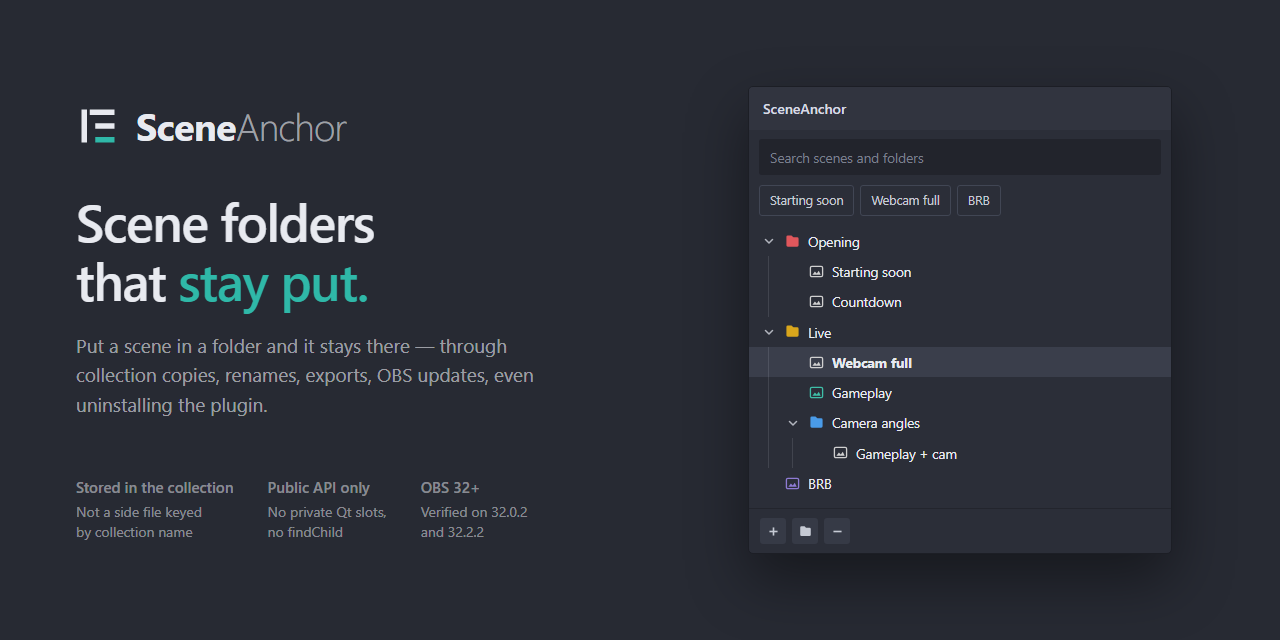
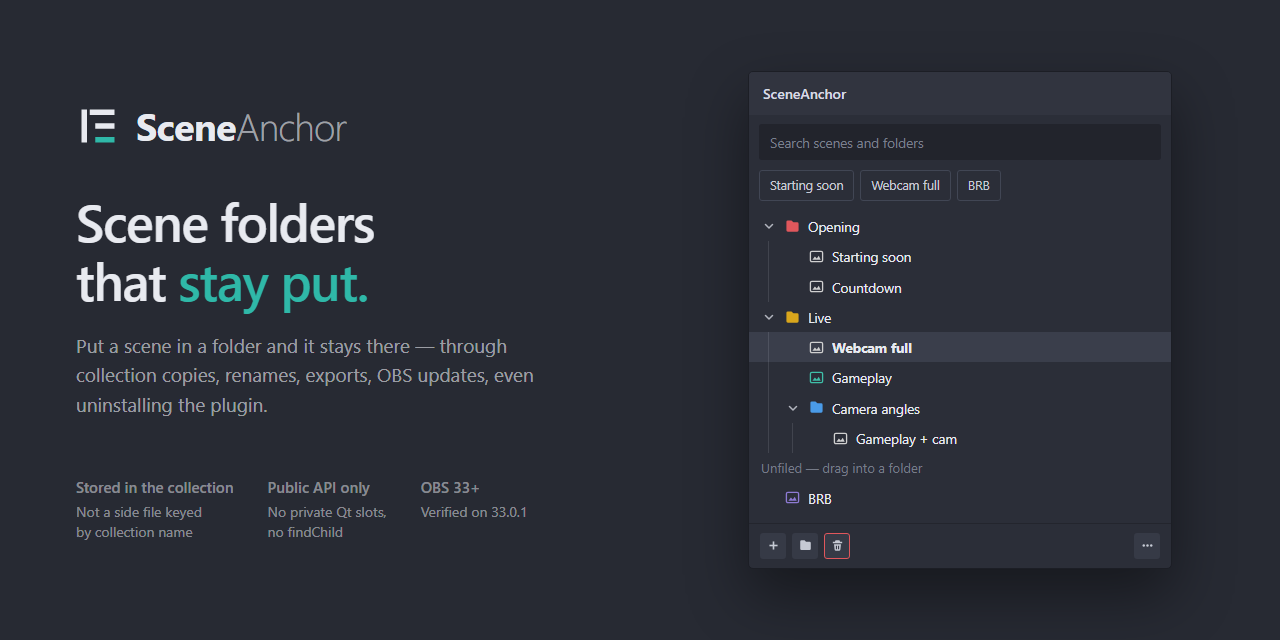
chore(release): prepare the 2.0.0 copy and checklist

diff --git a/assets/social-card.html b/assets/social-card.html
@@ -54,7 +54,9 @@
   .ico { width:15px; height:15px; flex:0 0 15px; }
   .caret { width:16px; height:12px; flex:0 0 16px; color:#D8DBE4; opacity:.78; }
   .toolbar { display:flex; gap:6px; padding:9px 11px; border-top:1px solid #23252d; }
+  .toolbar .end { margin-left:auto; }
   .btn { width:26px; height:26px; border-radius:3px; background:#363A46; display:flex; align-items:center; justify-content:center; }
+  .btn.danger { border:1px solid #E0575C; }
   .btn svg { width:13px; height:13px; color:#C6CAD4; }
 </style>
 <body>
@@ -70,7 +72,7 @@
     <div class="facts">
       <div class="fact"><b>Stored in the collection</b>Not a side file keyed<br>by collection name</div>
       <div class="fact"><b>Public API only</b>No private Qt slots,<br>no findChild</div>
-      <div class="fact"><b>OBS 32+</b>Verified on 32.0.2<br>and 32.2.2</div>
+      <div class="fact"><b>OBS 33+</b>Verified on 33.0.1</div>
     </div>
   </div>
 
@@ -92,12 +94,14 @@
         <div class="row"><i class="g"></i><i class="g0"></i><svg class="ico" viewBox="0 0 16 16"><rect x="1.5" y="2.5" width="13" height="11" rx="1.5" fill="none" stroke="#3FBFA8" stroke-width="1.4"/><path fill="#3FBFA8" d="M3.6 11.4 6.3 7.9l2 2.3 2.1-2.9 2.1 4.1z"/></svg>Gameplay</div>
         <div class="row"><i class="g"></i><svg class="caret" viewBox="0 0 16 12" fill="none" stroke="currentColor" stroke-width="1.5" stroke-linecap="round" stroke-linejoin="round"><path d="M4.5 4.5 8 8l3.5-3.5"/></svg><svg class="ico" viewBox="0 0 16 16"><path fill="#4A9BE8" d="M1.5 3A1.5 1.5 0 0 1 3 1.5h3.2c.4 0 .8.16 1.06.44L8.6 3.28c.1.1.24.16.38.16H13A1.5 1.5 0 0 1 14.5 4.94V12A1.5 1.5 0 0 1 13 13.5H3A1.5 1.5 0 0 1 1.5 12V3z"/></svg>Camera angles</div>
         <div class="row"><i class="g"></i><i class="g"></i><i class="g0"></i><svg class="ico" viewBox="0 0 16 16"><rect x="1.5" y="2.5" width="13" height="11" rx="1.5" fill="none" stroke="#d0d0d0" stroke-width="1.4"/><path fill="#d0d0d0" d="M3.6 11.4 6.3 7.9l2 2.3 2.1-2.9 2.1 4.1z"/></svg>Gameplay + cam</div>
+        <div class="row hdr">Unfiled — drag into a folder</div>
         <div class="row"><i class="g0"></i><svg class="ico" viewBox="0 0 16 16"><rect x="1.5" y="2.5" width="13" height="11" rx="1.5" fill="none" stroke="#8E7BD4" stroke-width="1.4"/><path fill="#8E7BD4" d="M3.6 11.4 6.3 7.9l2 2.3 2.1-2.9 2.1 4.1z"/></svg>BRB</div>
       </div>
       <div class="toolbar">
         <div class="btn"><svg viewBox="0 0 16 16"><path fill="currentColor" d="M7 3h2v10H7z"/><path fill="currentColor" d="M3 7h10v2H3z"/></svg></div>
         <div class="btn"><svg viewBox="0 0 16 16"><path fill="currentColor" d="M1.5 3A1.5 1.5 0 0 1 3 1.5h3.2c.4 0 .8.16 1.06.44L8.6 3.28c.1.1.24.16.38.16H13A1.5 1.5 0 0 1 14.5 4.94V12A1.5 1.5 0 0 1 13 13.5H3A1.5 1.5 0 0 1 1.5 12V3z"/></svg></div>
-        <div class="btn"><svg viewBox="0 0 16 16"><path fill="currentColor" d="M3 7h10v2H3z"/></svg></div>
+        <div class="btn danger"><svg viewBox="0 0 16 16"><path fill="currentColor" d="M6.25 1.5h3.5a1.25 1.25 0 0 1 1.25 1.25V3.5h2.75v1.75H2.25V3.5H5V2.75A1.25 1.25 0 0 1 6.25 1.5z"/><path fill="currentColor" fill-rule="evenodd" d="M3.75 6.5h8.5l-.66 6.42A1.75 1.75 0 0 1 9.84 14.5H6.16a1.75 1.75 0 0 1-1.75-1.58L3.75 6.5zm2.25 1.75v4.5h1.4v-4.5H6zm2.6 0v4.5H10v-4.5H8.6z"/></svg></div>
+        <div class="btn end"><svg viewBox="0 0 16 16"><circle cx="3.4" cy="8" r="1.5" fill="currentColor"/><circle cx="8" cy="8" r="1.5" fill="currentColor"/><circle cx="12.6" cy="8" r="1.5" fill="currentColor"/></svg></div>
       </div>
     </div>
   </div>

diff --git a/README.zh.md b/README.zh.md
@@ -30,7 +30,7 @@
 - **颜色标签**，文件夹和场景都能打——8 个预设加任意自定义色，渲染时自动调整以在你的主题下保持可读（见下）
 - **最近使用条**，一键切回；能放几个由面板宽度算出来，宁可少放也不把名字截成残段
 - **空状态引导**：还没有文件夹时，面板长得和 OBS 自带场景列表一模一样——连左边界都一样，因为展开箭头那一栏只在真有文件夹时才占位——于是它会说明怎么建第一个；建好就消失，面板小到放不下整句时也消失（截半句的引导读起来像坏了）
-- **面板右下角「⋯」按钮的选项**（也可在树空白处右键）：双击行为（转场 / 重命名 / 无）、选中是否切换场景、是否显示最近使用条、是否显示图标（一个开关同时管文件夹与场景，与 OBS 自己的来源列表同一套做法）
+- **面板右下角「⋯」按钮的选项**（也可在树空白处右键）：双击行为（转场 / 重命名 / 无）、点击或用方向键是否切换场景、是否显示最近使用条、是否显示图标（一个开关同时管文件夹与场景，与 OBS 自己的来源列表同一套做法）
 - **完整右键菜单**：转场到此场景、重命名（F2）、创建副本、删除、**滤镜**子菜单（复制 / 粘贴 / 打开）、**投影**子菜单（窗口，或按显示器全屏 — 报的是显示器真实像素尺寸）、截屏、覆盖转场动画（含时长）、在多视图中显示、颜色
 - **画得清楚的树**：展开箭头与逐层缩进导引线由插件自绘而非交给 Qt 默认样式，因而跟随当前主题、不会在深色下消失；每个文件夹都有箭头，空文件夹也有，所以文件夹永远不会被读成场景
 - **窄面板可用**：不给面板设人为下限；越拖越窄时，最近使用条会收成一枚按钮加一个「⋯」菜单
@@ -55,7 +55,7 @@
 
 到 [Releases](https://github.com/rockbenben/scene-anchor/releases) 下载对应平台的文件：**Windows** 是 `.exe` 安装包（也提供 `.zip`）；**macOS** 是 `.pkg` 安装包；**Linux** 是 `.deb`（`sudo apt install ./scene-anchor-*.deb`）。
 
-**这个分支只支持 OBS 33+。** 当前已发布的最新版仍是 1.0.1（OBS 32）；下一个版本 2.0.0 改用 OBS 33 的插件目录。OBS 32 用户请留在 1.0.1。
+**2.0.0 只支持 OBS 33+。** OBS 32 用户请留在 1.0.1；这一版改用 OBS 33 的插件目录。
 
 **Windows：双击 `.exe` 就装完了。** 默认装进 `C:\ProgramData\obs-studio\plugins\`——这是 OBS 33 在 Windows 上给常规安装读取的全机插件目录，也是 OBS 更新时不会被清掉的那个。**便携版**请在安装向导里把目标指向含 `bin\64bit\obs64.exe` 的 OBS 根目录，它会改装到 `<OBS>\plugins\scene-anchor\`。安装包按你选的目录挑布局，并在两者之间切换时清掉旧位置的副本，避免 OBS 把插件加载两次。两个目标都是全机范围的目录，所以会要一次管理员权限。想卸载在「设置 → 应用」里能找到。安装包未做代码签名，Windows SmartScreen 会拦一下（*「Windows 已保护你的电脑」*），点**详细信息 → 仍要运行**即可。
 
@@ -74,6 +74,8 @@ C:\ProgramData\obs-studio\plugins\scene-anchor\data\locale\zh-CN.ini
 
 **macOS：安装包未签名。** 双击 `.pkg` 会看到*「无法打开，因为它来自身份不明的开发者」*——改成右键选**打开**，或到系统设置 → 隐私与安全性里放行。这是安装包的事，不是插件的事：OBS 自己的 entitlements 里带着 `com.apple.security.cs.disable-library-validation`（`frontend/cmake/macos/entitlements.plist`），正是为了能加载第三方插件，所以未签名的插件装好之后照常加载。给安装包签名需要 Apple Developer ID，多数独立 OBS 插件作者不会去买——[obs-move-transition](https://github.com/exeldro/obs-move-transition)、[waveform](https://github.com/phandasm/waveform)、[obs-multi-rtmp](https://github.com/sorayuki/obs-multi-rtmp) 至今发的都是未签名的包。
 
+**Linux：先装 OBS 33。** Ubuntu 26.04 官方源里的 OBS 仍是 32.1，加载不了本插件。先按 [OBS PPA](https://launchpad.net/~obsproject/+archive/ubuntu/obs-studio) 装 OBS 33（`sudo add-apt-repository ppa:obsproject/obs-studio && sudo apt update && sudo apt install obs-studio`），再装 `.deb`。
+
 **装好之后要手动打开面板。** SceneAnchor 的面板默认不可见——OBS 不会自动显示新插件的面板。打开 OBS 的**停靠部件**菜单（某些平台在 视图 → 停靠部件 下），勾选 **SceneAnchor** 就出来了。装完看不到面板，几乎都是这个原因，不是插件加载失败。
 
 ## 已知限制
@@ -86,18 +88,18 @@ C:\ProgramData\obs-studio\plugins\scene-anchor\data\locale\zh-CN.ini
   个别插件确实提供了自己的切换口子（Aitum Vertical ≥1.6.1 在全局 proc handler 上注册了 `aitum_vertical_switch_scene`）。支持这一家而不支持下一家既不公平也难维护；而一个本面板切不了的场景，只占得住三个动词里的两个——找到、整理、切换。两个不足以换一个 UI 分区。
 - **切换「在多视图中显示」不会立刻刷新已打开的多视图投影。** 改动要等下一次树重建才生效（没有公开 API 能强制刷新多视图）。
 - **搜索过滤生效期间禁用拖放**，因为过滤会隐藏一部分项，放置位置可能与看到的不符。清空搜索框即可恢复拖放。
-- **默认「选中即切换场景」**——包括用方向键移动选中项时。这与 OBS 自带场景列表一致，但那个列表只用来切换，而本面板还要用来拖拽、改名、上色。用方向键越过八个场景去够一个文件夹，就是八次真实的节目切换。整理的时候在「⋯」菜单里关掉**选中即切换场景**；双击和菜单里的**转场到此场景**照常可用。
+- **默认「点击或方向键切换场景」**——包括用方向键移动选中项时。这与 OBS 自带场景列表一致，但那个列表只用来切换，而本面板还要用来拖拽、改名、上色。用方向键越过八个场景去够一个文件夹，就是八次真实的节目切换。整理的时候在「⋯」菜单里关掉**点击或方向键切换场景**；双击和菜单里的**转场到此场景**照常可用。
 - **在新版本里改默认值不会影响老用户。** OBS 在退出时持久化插件设置，所以插件只要跑过一次，存下来的值就压过代码里声明的任何默认值。默认值只对全新安装生效。
 
 **灰色地带**：转场覆盖存在 `"transition"` / `"transition_duration"` 这两个 private-settings 键下，多视图可见性存在 `"show_in_multiview"` 下。这些键可以通过公开 API 读写，但键名本身是 OBS 前端的约定而非有文档的 API 契约——未来某个 OBS 版本可能不打招呼就改掉。
 
-- **只有 Windows 经过真机验证。**[`docs/pre-release-checklist.md`](docs/pre-release-checklist.md) 里的完整人工检查——拖拽、撤销/重做、删除撤销、主题、本地化——是在 Windows 上对着 OBS 32.2.2 跑的。OBS 33.0.x 构建已跑过加载、面板、搜索与切换，以及 MRU 顺序、单击延迟模式、集合复制/切换/重命名 + 强杀、热键搜索流程和关闭日志；其余项尚未在 OBS 33 上重跑。macOS 与 Linux 目标能在 CI 上编译打包，插件本身也没有任何平台相关代码，但至今没有人在这两个系统上把 OBS 带着它启动过。请把它们当作**未验证**而不是**有问题**，遇到什么也欢迎报给我。
+- **只有 Windows 经过真机验证。**[`docs/pre-release-checklist.md`](docs/pre-release-checklist.md) 的人工检查已在 Windows 上对着 OBS 33.0.1 跑过第 1–8、10–13、15–20 项；第 9 项（副画布）没有对应插件，不适用。第 14 项（首次使用 dock 的可见性）以及自定义色对话框点选、物理热键与 Studio Mode 分支，仍按清单里的说明留待发版前补做。macOS 与 Linux 目标能在 CI 上编译打包，插件本身也没有任何平台相关代码，但至今没有人在这两个系统上把 OBS 带着它启动过。请把它们当作**未验证**而不是**有问题**，遇到什么也欢迎报给我。
 
 ## 报告问题
 
 问题请提到 [GitHub Issues](https://github.com/rockbenben/scene-anchor/issues)。四样东西决定一份报告能不能被查下去：
 
-- **OBS 版本、平台，以及插件版本。**最后这项插件加载时会自己打进日志：`[scene-anchor] plugin loaded successfully (version 1.0.1)`。
+- **OBS 版本、平台，以及插件版本。**最后这项插件加载时会自己打进日志：`[scene-anchor] plugin loaded successfully (version 2.0.0)`。
 - **那一次运行的日志。**帮助 → 日志文件 → 上传当前日志文件会生成一个可分享的链接；本插件写的每一行都带 `[scene-anchor]` 前缀。
 - **你做了什么、预期什么、实际发生了什么**——以及是否涉及撤销或重做，那是本插件风险最高的代码路径。
 - **如果文件夹丢了，把场景集合本身附上**（场景集合 → 导出场景集合）。树就存在那个文件里，它本身就是证据；缺了它的「文件夹丢失」报告基本无法定位。
@@ -136,7 +138,7 @@ cmake --preset ubuntu-x86_64
 cmake --build --preset ubuntu-x86_64 --config RelWithDebInfo
 ```
 
-单元测试（不需要 OBS 运行时；测试本身只链接 Qt，用假 OBS 桩）：
+单元测试（不需要 OBS 运行时；测试本身只链接 Qt、用假 OBS 桩，但 UI 测试会编译 `tree_dock.cpp`，因此需要 OBS 头文件——本地构建的 `.deps/include`，或 Ubuntu 上的 `libobs-dev`）：
 
 ```bash
 cmake -S tests -B build_tests -G Ninja

diff --git a/README.md b/README.md
@@ -55,7 +55,7 @@ Existing scene-tree plugins ([DigitOtter/obs_scene_tree_view](https://github.com
 
 Grab your platform's file from [Releases](https://github.com/rockbenben/scene-anchor/releases): **Windows** an `.exe` installer (or a `.zip`), **macOS** a `.pkg` installer, **Linux** a `.deb` (`sudo apt install ./scene-anchor-*.deb`).
 
-**This branch targets OBS 33+.** The latest published release is still 1.0.1 (OBS 32); the next release, 2.0.0, moves to OBS 33's plugin layout. OBS 32 users should stay on 1.0.1.
+**This release (2.0.0) requires OBS 33+.** OBS 32 users should stay on 1.0.1; 2.0.0 moves to OBS 33's plugin layout.
 
 **Windows: run the `.exe` and you're done.** It defaults to `C:\ProgramData\obs-studio\plugins\` — the machine-wide plugin directory OBS 33 reads for a normal install, and the one an OBS update won't wipe. For a **portable** OBS, point the installer at the folder containing `bin\64bit\obs64.exe`; it will install to `<OBS>\plugins\scene-anchor\` instead. The two layouts are chosen from the folder you pick, and switching between them removes the old copy so OBS never loads the plugin twice. Both targets are machine-wide, so it asks for administrator rights once. It shows up under Settings → Apps if you ever want it gone. The installer is not code-signed, so Windows SmartScreen will say *"Windows protected your PC"* — click **More info → Run anyway**.
 
@@ -73,6 +73,8 @@ Note it is `ProgramData`, not `%APPDATA%` — OBS reads plugins from the machine
 Restart OBS after any of these.
 
 **macOS: the installer is not signed.** Double-clicking the `.pkg` gets you *"cannot be opened because it is from an unidentified developer"* — right-click it and choose **Open** instead, or allow it under System Settings → Privacy & Security. This is about the installer, not the plugin: OBS ships `com.apple.security.cs.disable-library-validation` in its own entitlements (`frontend/cmake/macos/entitlements.plist`) precisely so it can load third-party plugins, so an unsigned plugin loads normally once installed. Signing the installer needs an Apple Developer ID, which most individual OBS plugin authors don't buy — [obs-move-transition](https://github.com/exeldro/obs-move-transition), [waveform](https://github.com/phandasm/waveform) and [obs-multi-rtmp](https://github.com/sorayuki/obs-multi-rtmp) all ship unsigned packages today.
+
+**Linux: install OBS 33 first.** Ubuntu 26.04's archive still ships OBS 32.1, which cannot load this plugin. Install OBS Studio 33 from the [OBS PPA](https://launchpad.net/~obsproject/+archive/ubuntu/obs-studio) (`sudo add-apt-repository ppa:obsproject/obs-studio && sudo apt update && sudo apt install obs-studio`), then install the `.deb`.
 
 **After installing, enable the dock.** SceneAnchor's dock is not visible by default — OBS does not automatically show new plugin docks. Open OBS's **Docks** menu (View → Docks on some platforms) and check **SceneAnchor** to make it appear. If you don't see the dock after installing, this is almost always the reason — the plugin has not failed to load.
 
@@ -92,13 +94,13 @@ Restart OBS after any of these.
 
 **Gray areas**: transition override is stored under the `"transition"` / `"transition_duration"` private-settings keys, and multiview visibility under `"show_in_multiview"`. These keys are accessible through public API calls, but the keys themselves are an OBS frontend convention rather than a documented API contract — a future OBS version could change them without notice.
 
-- **Only Windows has been exercised on real hardware.** The full manual checklist in [`docs/pre-release-checklist.md`](docs/pre-release-checklist.md) — drag, undo/redo, delete-undo, themes, localisation — was run on Windows against OBS 32.2.2. The OBS 33.0.x build has been exercised for load/dock/search/switch, MRU ordering, the click-delay modes, collection copy/switch/rename + force-kill, the hotkey/search flow and a clean shutdown log; the remaining items have not been rerun on OBS 33. The macOS and Linux targets compile and package in CI, and the plugin uses no platform-specific code, but nobody has yet launched OBS with it on either. Treat those two as untested rather than broken, and please report what you find.
+- **Only Windows has been exercised on real hardware.** The manual checklist in [`docs/pre-release-checklist.md`](docs/pre-release-checklist.md) was run on Windows against OBS 33.0.1 for this release: items 1–8, 10–13 and 15–20. Item 9 (secondary canvas) is not applicable without such a plugin. Item 14 (first-run dock visibility) and the manual custom-colour dialog and physical-hotkey/Studio Mode checks are called out in that file as the remaining release-day checks. The macOS and Linux targets compile and package in CI, and the plugin uses no platform-specific code, but nobody has yet launched OBS with it on either. Treat those two as untested rather than broken, and please report what you find.
 
 ## Reporting bugs
 
 Bugs go to [GitHub Issues](https://github.com/rockbenben/scene-anchor/issues). Four things make a report actionable:
 
-- **OBS version, platform, and plugin version.** The plugin prints the last one when it loads: `[scene-anchor] plugin loaded successfully (version 1.0.1)`.
+- **OBS version, platform, and plugin version.** The plugin prints the last one when it loads: `[scene-anchor] plugin loaded successfully (version 2.0.0)`.
 - **The log from that session.** Help → Log Files → Upload Current Log File gives a shareable link; every line this plugin writes is prefixed `[scene-anchor]`.
 - **What you did, what you expected, what happened** — and whether undo or redo was involved, because that is where this plugin's riskiest code paths are.
 - **If folders went missing, attach the scene collection itself** (Scene Collection → Export Scene Collection). The tree is stored inside that file, so it is the evidence; a lost-folders report without it usually can't be diagnosed.
@@ -137,7 +139,7 @@ cmake --preset ubuntu-x86_64
 cmake --build --preset ubuntu-x86_64 --config RelWithDebInfo
 ```
 
-Unit tests (no OBS runtime required; the tests link Qt only, with a fake OBS stub):
+Unit tests (no OBS runtime required; the tests link Qt only, with a fake OBS stub, but the UI test compiles `tree_dock.cpp` and therefore needs OBS headers — `.deps/include` from a local build, or `libobs-dev` on Ubuntu):
 
 ```bash
 cmake -S tests -B build_tests -G Ninja

diff --git a/docs/release.md b/docs/release.md
@@ -7,27 +7,31 @@
   `v1.0.2` 会被 CI 直接拒绝并提示正确写法。
 - **tag 必须等于 `buildspec.json` 的 `version`。** `check-event` 在构建前比较两者，
   不一致就失败，避免 `1.0.2` 的 tag 发出 `1.0.1` 的文件。
-- **OBS 32 兼容的最后一版是 `1.0.1`。** 从下一个版本起只支持 OBS 33+、只发 OBS 33 的
-  插件目录；放弃 OBS 32 是破坏性变更，版本号应为 `2.0.0`。
+- **OBS 32 兼容的最后一版是 `1.0.1`。** 从 `2.0.0` 起只支持 OBS 33+、只发 OBS 33 的
+  插件目录；放弃 OBS 32 是破坏性变更，所以 2.0.0 是 major。
 
 ## 发版步骤
 
 1. 改 `buildspec.json` 的 `version`。破坏性支持范围变化抬 major。
 2. 更新 `README.md` / `README.zh.md` 的支持范围、安装路径与已知限制；按
-   [`docs/pre-release-checklist.md`](pre-release-checklist.md) 在目标 OBS 版本上跑完整清单。
+   [`docs/pre-release-checklist.md`](pre-release-checklist.md) 在目标 OBS 版本上补齐剩余项，
+   包括第 21 项 Windows 1.0.1 → 2.0.0 升级安装。
 3. 本地验证：构建、单测、安装布局、OBS 实机加载。
-4. 提交后打 tag，推送 tag：
+4. 先把 main 上待发布的提交推送，确认 `check-format`、`tests` 与 `build-project` 全绿；
+   不要给没跑过 CI 的提交打 tag。
+5. 打 tag，推送 tag：
 
    ```bash
    git tag 2.0.0
    git push origin 2.0.0
    ```
 
-5. CI 依次执行：单测 → 三平台构建/打包 → `create-release` 生成 draft release。
+6. CI 依次执行：单测 → 三平台构建/打包 → `create-release` 生成 draft release。
    单测失败时不会创建 release。
-6. 检查 draft 的产物与 `CHECKSUMS.txt`，用下面的模板补中英双语说明，再发布。
+7. 检查 draft 的产物与 `CHECKSUMS.txt`，用下面的模板补中英双语说明，再发布。
    draft 初始正文只有校验和；在它上面加说明，不要删掉校验和块。
-7. 发布后把 OBS 论坛资源页的版本与下载链接更新到新 release。
+8. 发布后更新 OBS 论坛资源页的版本、下载链接与兼容范围；同时确认 GitHub description
+   和社交预览图不再写 OBS 32。社交预览图没有 API，只能在 Settings → Social preview 手动上传。
 
 ## 发布产物
 
@@ -38,10 +42,14 @@
 | Ubuntu 26.04 | `scene-anchor-<version>-x86_64-linux-gnu.deb` | `/usr/lib/<multiarch>/obs-modules/plugins/` + `/usr/share/obs/obs-modules/plugins/` |
 | 调试/源码 | `-dbgsym.ddeb`、`-source.tar.xz` | 普通用户不需要 |
 
+Ubuntu 26.04 的系统源 OBS 仍是 32.1；上表的 `.deb` 只适用于 OBS 33（OBS 官方 PPA）。
+
 ## Release notes 模板
 
 ```markdown
-**Requires OBS Studio 33 or newer.** OBS 32 users should stay on 1.0.1.
+**Requires OBS Studio 33 or newer.** OBS 32 users should stay on 1.0.1. On Ubuntu 26.04, install OBS 33 from the [OBS PPA](https://launchpad.net/~obsproject/+archive/ubuntu/obs-studio) first — the archive's OBS is 32.1.
+
+The Windows installer removes the 1.0.1 legacy files (the old `...\scene-anchor\bin\64bit` under ProgramData and `obs-plugins\64bit` + `data\obs-plugins\scene-anchor` in a portable OBS) and installs under `<plugins>\scene-anchor\`. Close OBS before upgrading.
 
 <one-paragraph summary in English>
 
@@ -67,7 +75,9 @@
 
 ---
 
-**需要 OBS Studio 33 或更新版本。** OBS 32 用户请留在 1.0.1。
+**需要 OBS Studio 33 或更新版本。** OBS 32 用户请留在 1.0.1。Ubuntu 26.04 用户请先从 [OBS PPA](https://launchpad.net/~obsproject/+archive/ubuntu/obs-studio) 装 OBS 33——官方源里的 OBS 是 32.1。
+
+Windows 安装包会清掉 1.0.1 的旧文件（ProgramData 下的 `...\scene-anchor\bin\64bit`，便携版里的 `obs-plugins\64bit` 与 `data\obs-plugins\scene-anchor`），改装到 `<plugins>\scene-anchor\`。升级前请关闭 OBS。
 
 <一段中文摘要>
 

diff --git a/docs/pre-release-checklist.md b/docs/pre-release-checklist.md
@@ -11,7 +11,9 @@
 > 第 10 项双击 Rename/None/Transition 三种模式通过，单击切换改为延迟一个系统双击间隔；
 > 第 12/15 项只验证了浅/深主题和现有颜色标签，八色预设/自定义色/图标关闭后的文字色未走完；
 > 第 4（集合复制/切换/重命名/强杀）与第 18（热键）已于 2026-10-31 补跑通过，细节见两项末尾；
-> 第 9 项没有副画布插件，不适用。下一次发版前仍需按本清单完整走一遍。
+> 第 9 项没有副画布插件，不适用。**2026-10-31 发布前状态：第 1–8、10–13、15–20 项已通过；
+> 第 14 项尚未在 33 上重跑，第 15 项的自定义色对话框点选、第 18 项的物理热键与 Studio Mode 分支
+> 仍按各项末尾说明留待人工补做；第 21 项（Windows 升级安装）也待跑。**
 >
 > **2026-10-31 实时路径优化后补充（Windows 真机 OBS 33.0.x）**：MRU 按 uuid 取名与 chip 点击、
 > `none` 模式单击立即切换、`transition` 模式仍等一个双击间隔，以及第 20 项关闭日志（无插件的
@@ -423,3 +425,11 @@ dock->setFloating(true);    // 强制浮动
 **要看什么**：日志里不应出现 `Tried to call obs_frontend_remove_save_callback with no callbacks!`——这条只可能来自插件。`remove_event_callback`、`is_safe_mode_enabled` 之类的同类 ERROR 也可能来自 OBS 自身的 SourceTreeModel 或 obs-websocket，不能单独作为插件失败证据。
 
 **失败长什么样**：出现 `remove_save_callback` 那条，或在 `[scene-anchor] plugin unloaded` 附近同时出现 save 与 event 两条，说明 `obs_module_unload` 里又碰了已销毁的 frontend API。
+
+### 21. Windows 1.0.1 → 2.0.0 升级
+
+先用 1.0.1 的 Windows 安装包装一次（ProgramData 与便携版各走一遍），建一个带文件夹的场景集合；再用 2.0.0 安装包覆盖安装。
+
+**要看什么**：1.0.1 的旧位置被清掉——普通安装的 `...\scene-anchor\bin\64bit`，便携版的 `<OBS>\obs-plugins\64bit\scene-anchor.dll` 与 `<OBS>\data\obs-plugins\scene-anchor`；新文件在 `...\plugins\scene-anchor\scene-anchor.dll`。OBS 插件管理器里显示 2.0.0，且只加载一份插件；打开原场景集合，文件夹树与升级前一致。
+
+**失败长什么样**：新旧两份 DLL 同时被扫到、插件管理器仍显示 1.0.1、OBS 启动报重复模块，或升级后树丢失。
